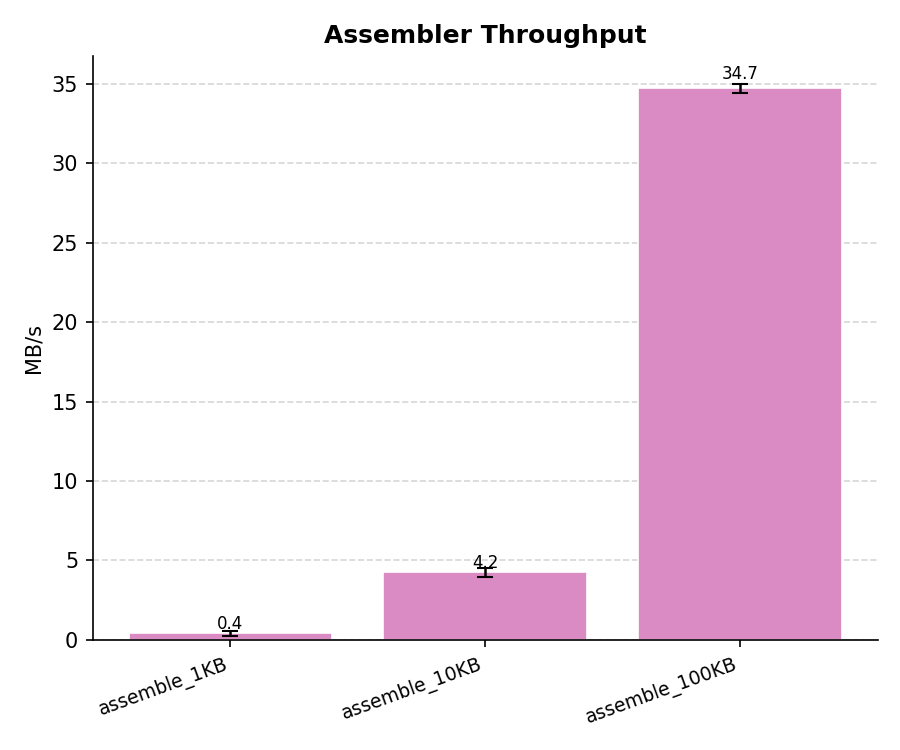
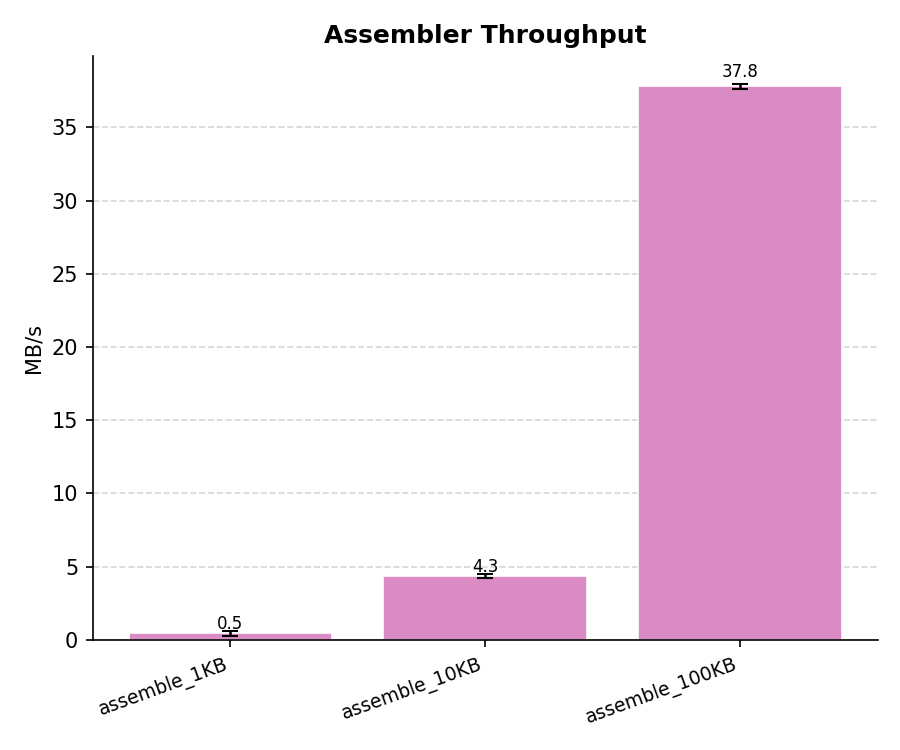
Re-Ran Bench and quick change to main.c
Re-ran bench on build and added .idea/ to the .gitignore

diff --git a/main.c b/main.c
@@ -1,6 +1,5 @@
 #include <stdio.h>
 #include <stdint.h>
-#include <stdlib.h>
 
 #include "deps/arena/arena.h"
 #include "deps/cliargs/cliargs.h"
@@ -189,7 +188,7 @@ int main(int argc, char **argv){
 	free(buff);
 	free(sbuff);
 
-	return exit_code;
+	return (uint8_t)exit_code;
 }
 
 //	.:
